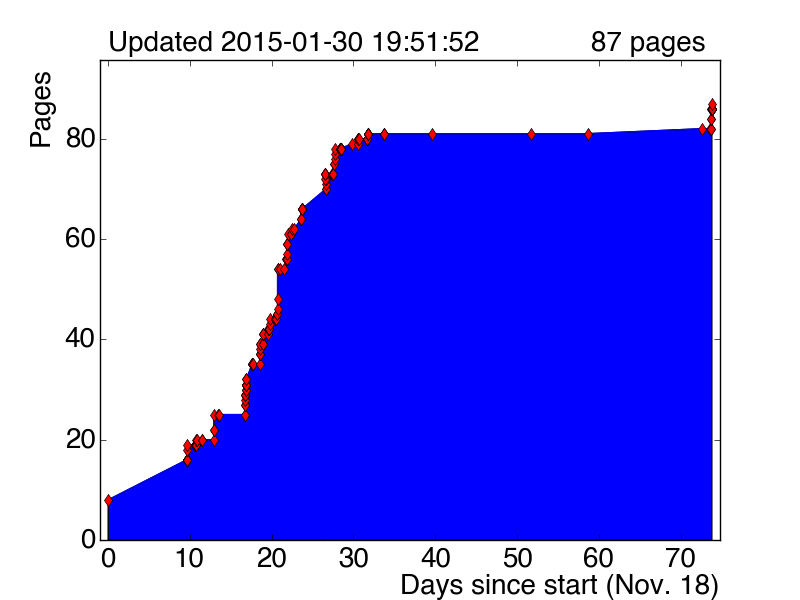
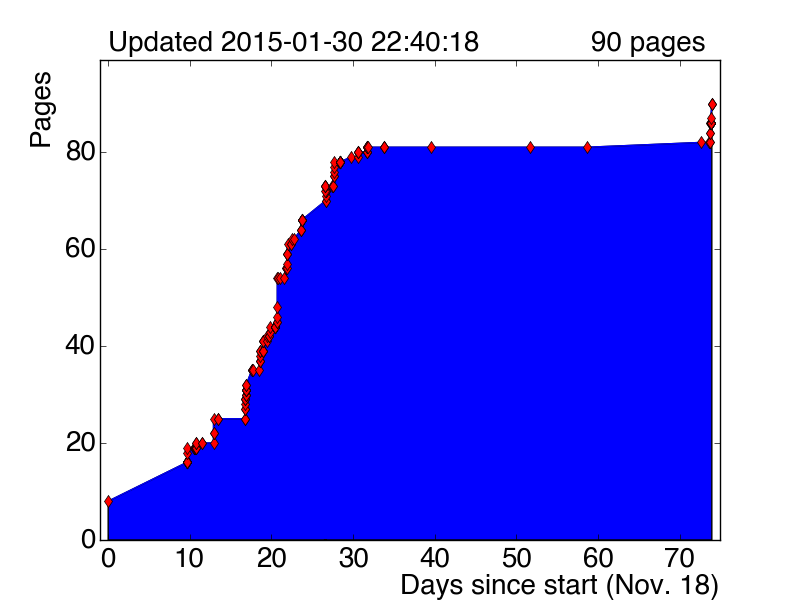
tau id input vars in the appendix

diff --git a/tex/apx-tauid.tex b/tex/apx-tauid.tex
@@ -1,0 +1,39 @@
+\chapter[Inputs to the $\tauh$ BDT identifier][Inputs to the $\tauh$ BDT identifier]{Inputs to the $\tauh$ BDT identifier}
+\label{apx:tauid}
+
+\begin{quote}
+Distributions of $\tauh$ (signal) and QCD jets (background) for the BDT identification algorithm are shown.
+\end{quote}
+
+\begin{figure}[tp]
+  \centering
+  \includegraphics[width=0.48\textwidth]{figures/PERF-2013-06/fig_02a}
+  \includegraphics[width=0.48\textwidth]{figures/PERF-2013-06/fig_02b}
+  \includegraphics[width=0.48\textwidth]{figures/PERF-2013-06/figaux_01}
+  \includegraphics[width=0.48\textwidth]{figures/PERF-2013-06/figaux_02}
+  \includegraphics[width=0.48\textwidth]{figures/PERF-2013-06/figaux_03}
+  \includegraphics[width=0.48\textwidth]{figures/PERF-2013-06/figaux_04}
+  \includegraphics[width=0.48\textwidth]{figures/PERF-2013-06/figaux_05}
+  \includegraphics[width=0.48\textwidth]{figures/PERF-2013-06/figaux_06}
+  \caption{Variables.}
+  \label{fig:tauid-inputs-1p}
+\end{figure}
+
+\begin{figure}[tp]
+  \centering
+  \includegraphics[width=0.32\textwidth]{figures/PERF-2013-06/fig_03a}
+  \includegraphics[width=0.32\textwidth]{figures/PERF-2013-06/fig_03b}
+  \includegraphics[width=0.32\textwidth]{figures/PERF-2013-06/figaux_07}
+  \includegraphics[width=0.32\textwidth]{figures/PERF-2013-06/figaux_08}
+  \includegraphics[width=0.32\textwidth]{figures/PERF-2013-06/figaux_09}
+  \includegraphics[width=0.32\textwidth]{figures/PERF-2013-06/figaux_10}
+  \includegraphics[width=0.32\textwidth]{figures/PERF-2013-06/figaux_11}
+  \includegraphics[width=0.32\textwidth]{figures/PERF-2013-06/figaux_12}
+  \includegraphics[width=0.32\textwidth]{figures/PERF-2013-06/figaux_13}
+  \caption{Variables.}
+  \label{fig:tauid-inputs-3p}
+\end{figure}
+
+\clearpage
+
+

diff --git a/thesis.tex b/thesis.tex
@@ -70,6 +70,7 @@
 %%--------------------------------------------------------------------
 \appendix
 \include{tex/apx-control-regions}
+\include{tex/apx-tauid}
 
 %%--------------------------------------------------------------------
 %% administrative

diff --git a/figures.md b/figures.md
@@ -73,10 +73,10 @@
   0. signal strength summary            :small_blue_diamond:
   0. p-value vs. mH                     :small_blue_diamond:
   0. muVBF vs. muggF                    :small_blue_diamond:
-0. [Future prospects](tex/)             :small_orange_diamond:
+0. [Future prospects](tex/)             :small_blue_diamond:
   0. minbias vs ggF vs VBF              :small_blue_diamond:
   0. L1 resolutions (pt, eta, phi)      :small_blue_diamond:
-  0. sensitivity vs threshold, lh       :small_orange_diamond:
+  0. sensitivity vs threshold, lh       :small_blue_diamond:
   0. sensitivity vs threshold, hh       :small_blue_diamond:
   0. L1 cartoon                         :small_blue_diamond:
   0. L1 turn-ons for 1x1, 2x2, 4x4      :small_blue_diamond:

diff --git a/pages.md b/pages.md
@@ -202,3 +202,6 @@
 + [2015-01-30-19h45m40s] 86
 + [2015-01-30-19h47m45s] 86
 + [2015-01-30-19h51m52s] 87
++ [2015-01-30-22h35m48s] 90
++ [2015-01-30-22h36m47s] 90
++ [2015-01-30-22h40m18s] 90
